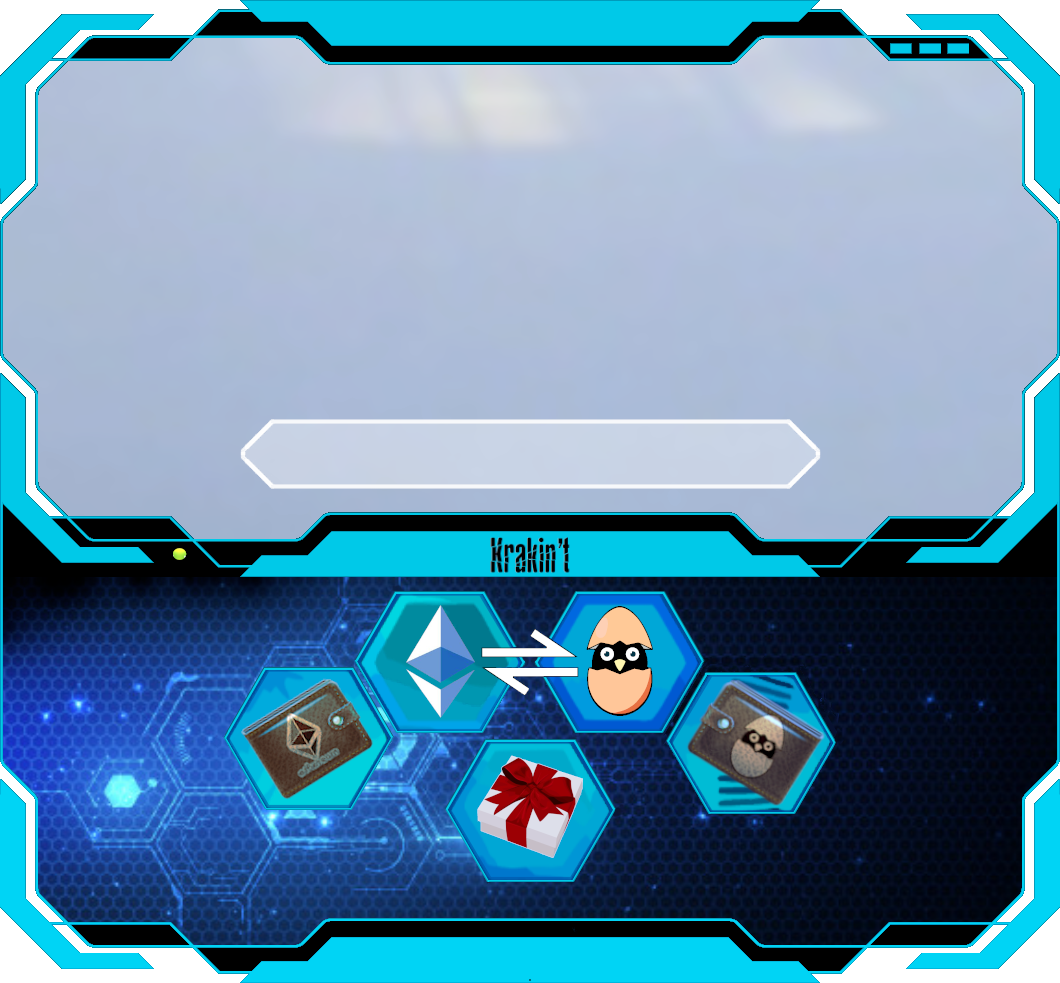
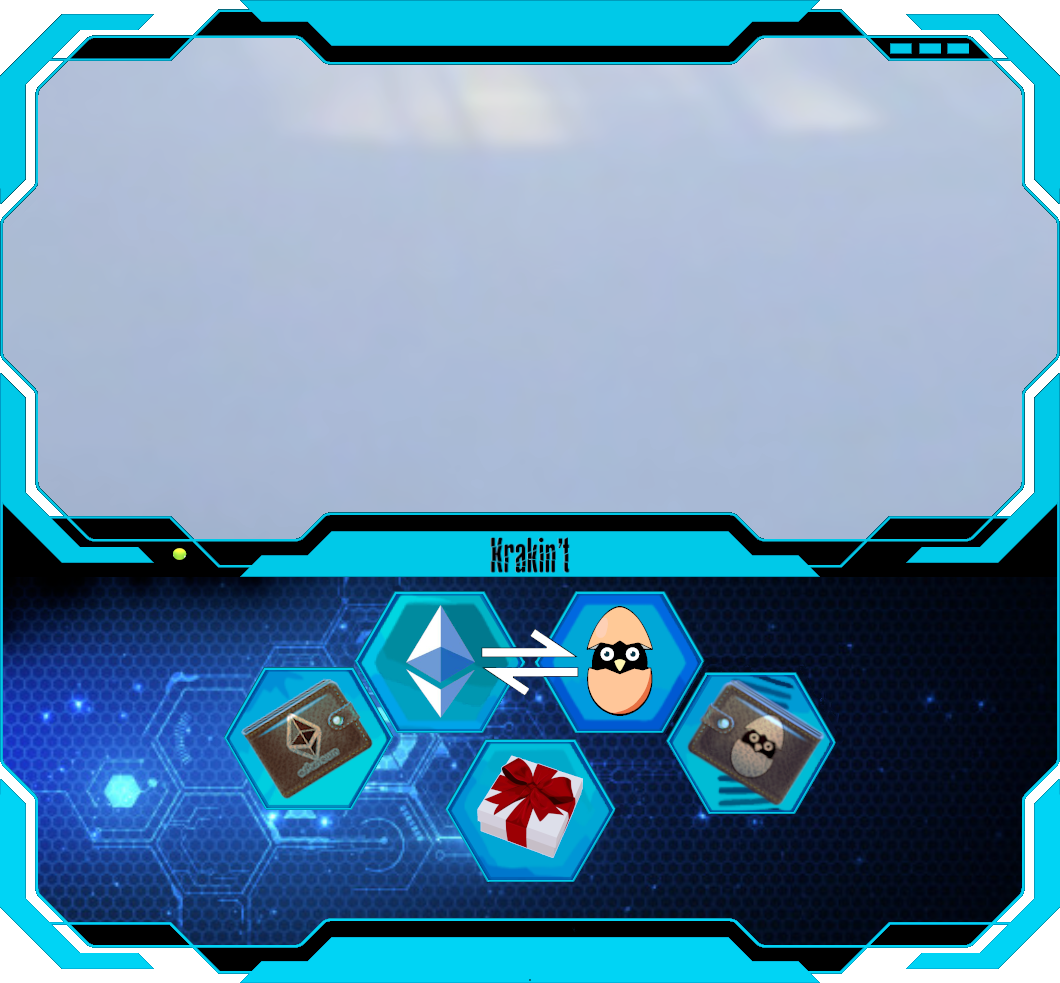
Enabling UI with Metamask

Changed region(s): [[0.2179, 0.4273, 0.7783, 0.5188]]

diff --git a/src/App.vue b/src/App.vue
@@ -17,7 +17,6 @@
         Click a button, <div><img src="./assets/img/hexagon_blank.png" width="50px"></div> from the menu below.
       </div>
 
-      <!--        <div class="metamask-link"><a href="https://metamask.io/download.html" target="_blank">Click Here</a></div>-->
       <div class="balance" v-if="!this.userAddress.startsWith('0x')">
         <div id="balance_num" style="display: inline-block;">Connect to Metamask...<br>Then, press reload.</div>
       </div>
@@ -25,6 +24,7 @@
       <div class="txtform"><input type="text" id="tbox" name="tbox" placeholder="Enter amount"></div>
       <div class="sendButton" style="display: none">Send</div>
       <div class="resetButton" style="display: none">Reset</div>
+      <div class="textField" style="display: none"><img src="./assets/img/textField.png"></div>
       <div class="arrows"><img src="./assets/img/arrows.png" width="40px"></div>
 
       <div class="blankScreen" v-if="!this.userAddress.startsWith('0x')">
@@ -118,11 +118,7 @@ export default {
       this.resetButtons();
       this.ethButtonClicked = true;
       this.grayOutButtonsExcept('ethButton');
-      document.getElementsByClassName('ethButtonBlue')[0].style.display = "none";
-      document.getElementsByClassName('initMessage')[0].style.display = "none";
-      document.getElementsByClassName('txtform')[0].style.display = "block";
-      document.getElementsByClassName('sendButton')[0].style.display = "block";
-      document.getElementsByClassName('resetButton')[0].style.display = "block";
+      this.enableTextField();
     },
     krkButtonBlueShow(){
       if(!this.userAddress.startsWith('0x')) return;
@@ -136,11 +132,7 @@ export default {
       this.resetButtons();
       this.krkButtonClicked = true;
       this.grayOutButtonsExcept('krkButton');
-      document.getElementsByClassName('krkButtonBlue')[0].style.display = "none";
-      document.getElementsByClassName('initMessage')[0].style.display = "none";
-      document.getElementsByClassName('txtform')[0].style.display = "block";
-      document.getElementsByClassName('sendButton')[0].style.display = "block";
-      document.getElementsByClassName('resetButton')[0].style.display = "block";
+      this.enableTextField();
     },
     ethWalletButtonBlueShow(){
       if(!this.userAddress.startsWith('0x')) return;
@@ -155,11 +147,7 @@ export default {
       this.resetButtons();
       this.ethWalletButtonClicked = true;
       this.grayOutButtonsExcept('ethWalletButton');
-      document.getElementsByClassName('ethWalletButtonBlue')[0].style.display = "none";
-      document.getElementsByClassName('initMessage')[0].style.display = "none";
-      document.getElementsByClassName('txtform')[0].style.display = "none";
-      document.getElementsByClassName('sendButton')[0].style.display = "none";
-      document.getElementsByClassName('resetButton')[0].style.display = "none";
+      this.disableTextField();
     },
 
     krkWalletButtonBlueShow(){
@@ -175,11 +163,7 @@ export default {
       this.resetButtons();
       this.krkWalletButtonClicked = true;
       this.grayOutButtonsExcept('krkWalletButton');
-      document.getElementsByClassName('krkWalletButtonBlue')[0].style.display = "none";
-      document.getElementsByClassName('initMessage')[0].style.display = "none";
-      document.getElementsByClassName('txtform')[0].style.display = "none";
-      document.getElementsByClassName('sendButton')[0].style.display = "none";
-      document.getElementsByClassName('resetButton')[0].style.display = "none";
+      this.disableTextField();
     },
     rewardButtonBlueShow(){
       if(!this.userAddress.startsWith('0x')) return;
@@ -194,11 +178,7 @@ export default {
       this.resetButtons();
       this.rewardButtonClicked = true;
       this.grayOutButtonsExcept('rewardButton');
-      document.getElementsByClassName('rewardButtonBlue')[0].style.display = "none";
-      document.getElementsByClassName('initMessage')[0].style.display = "none";
-      document.getElementsByClassName('txtform')[0].style.display = "none";
-      document.getElementsByClassName('sendButton')[0].style.display = "none";
-      document.getElementsByClassName('resetButton')[0].style.display = "none";
+      this.disableTextField();
     },
     resetButtons(){
       this.ethButtonClicked = false;
@@ -214,6 +194,23 @@ export default {
       document.getElementsByClassName('krkWalletButton')[0].style.display = "block";
       document.getElementsByClassName('rewardButton')[0].style.display = "block";
       document.getElementsByClassName(bttnExcpt)[0].style.display = "none";
+    },
+
+    disableTextField(){
+      document.getElementsByClassName('ethWalletButtonBlue')[0].style.display = "none";
+      document.getElementsByClassName('initMessage')[0].style.display = "none";
+      document.getElementsByClassName('txtform')[0].style.display = "none";
+      document.getElementsByClassName('sendButton')[0].style.display = "none";
+      document.getElementsByClassName('resetButton')[0].style.display = "none";
+      document.getElementsByClassName('textField')[0].style.display = "none";
+    },
+    enableTextField(){
+      document.getElementsByClassName('krkButtonBlue')[0].style.display = "none";
+      document.getElementsByClassName('initMessage')[0].style.display = "none";
+      document.getElementsByClassName('txtform')[0].style.display = "block";
+      document.getElementsByClassName('sendButton')[0].style.display = "block";
+      document.getElementsByClassName('resetButton')[0].style.display = "block";
+      document.getElementsByClassName('textField')[0].style.display = "block";
     },
 // ----------------BUTTONS END---------------
 
@@ -445,6 +442,10 @@ body {background:none transparent !important;
 .resetButton:active {
   position:relative;
   top:1px;
+}
+.textField{
+  position: absolute;
+  margin-bottom: 32px;
 }
 
 /*----------------BUTTONS END-----------------------------------*/

diff --git a/public/index.html b/public/index.html
@@ -164,6 +164,7 @@
         margin-right: 0;
         position: absolute;
         display: none;
+        z-index: 1;
     }
 
     #tbox {
